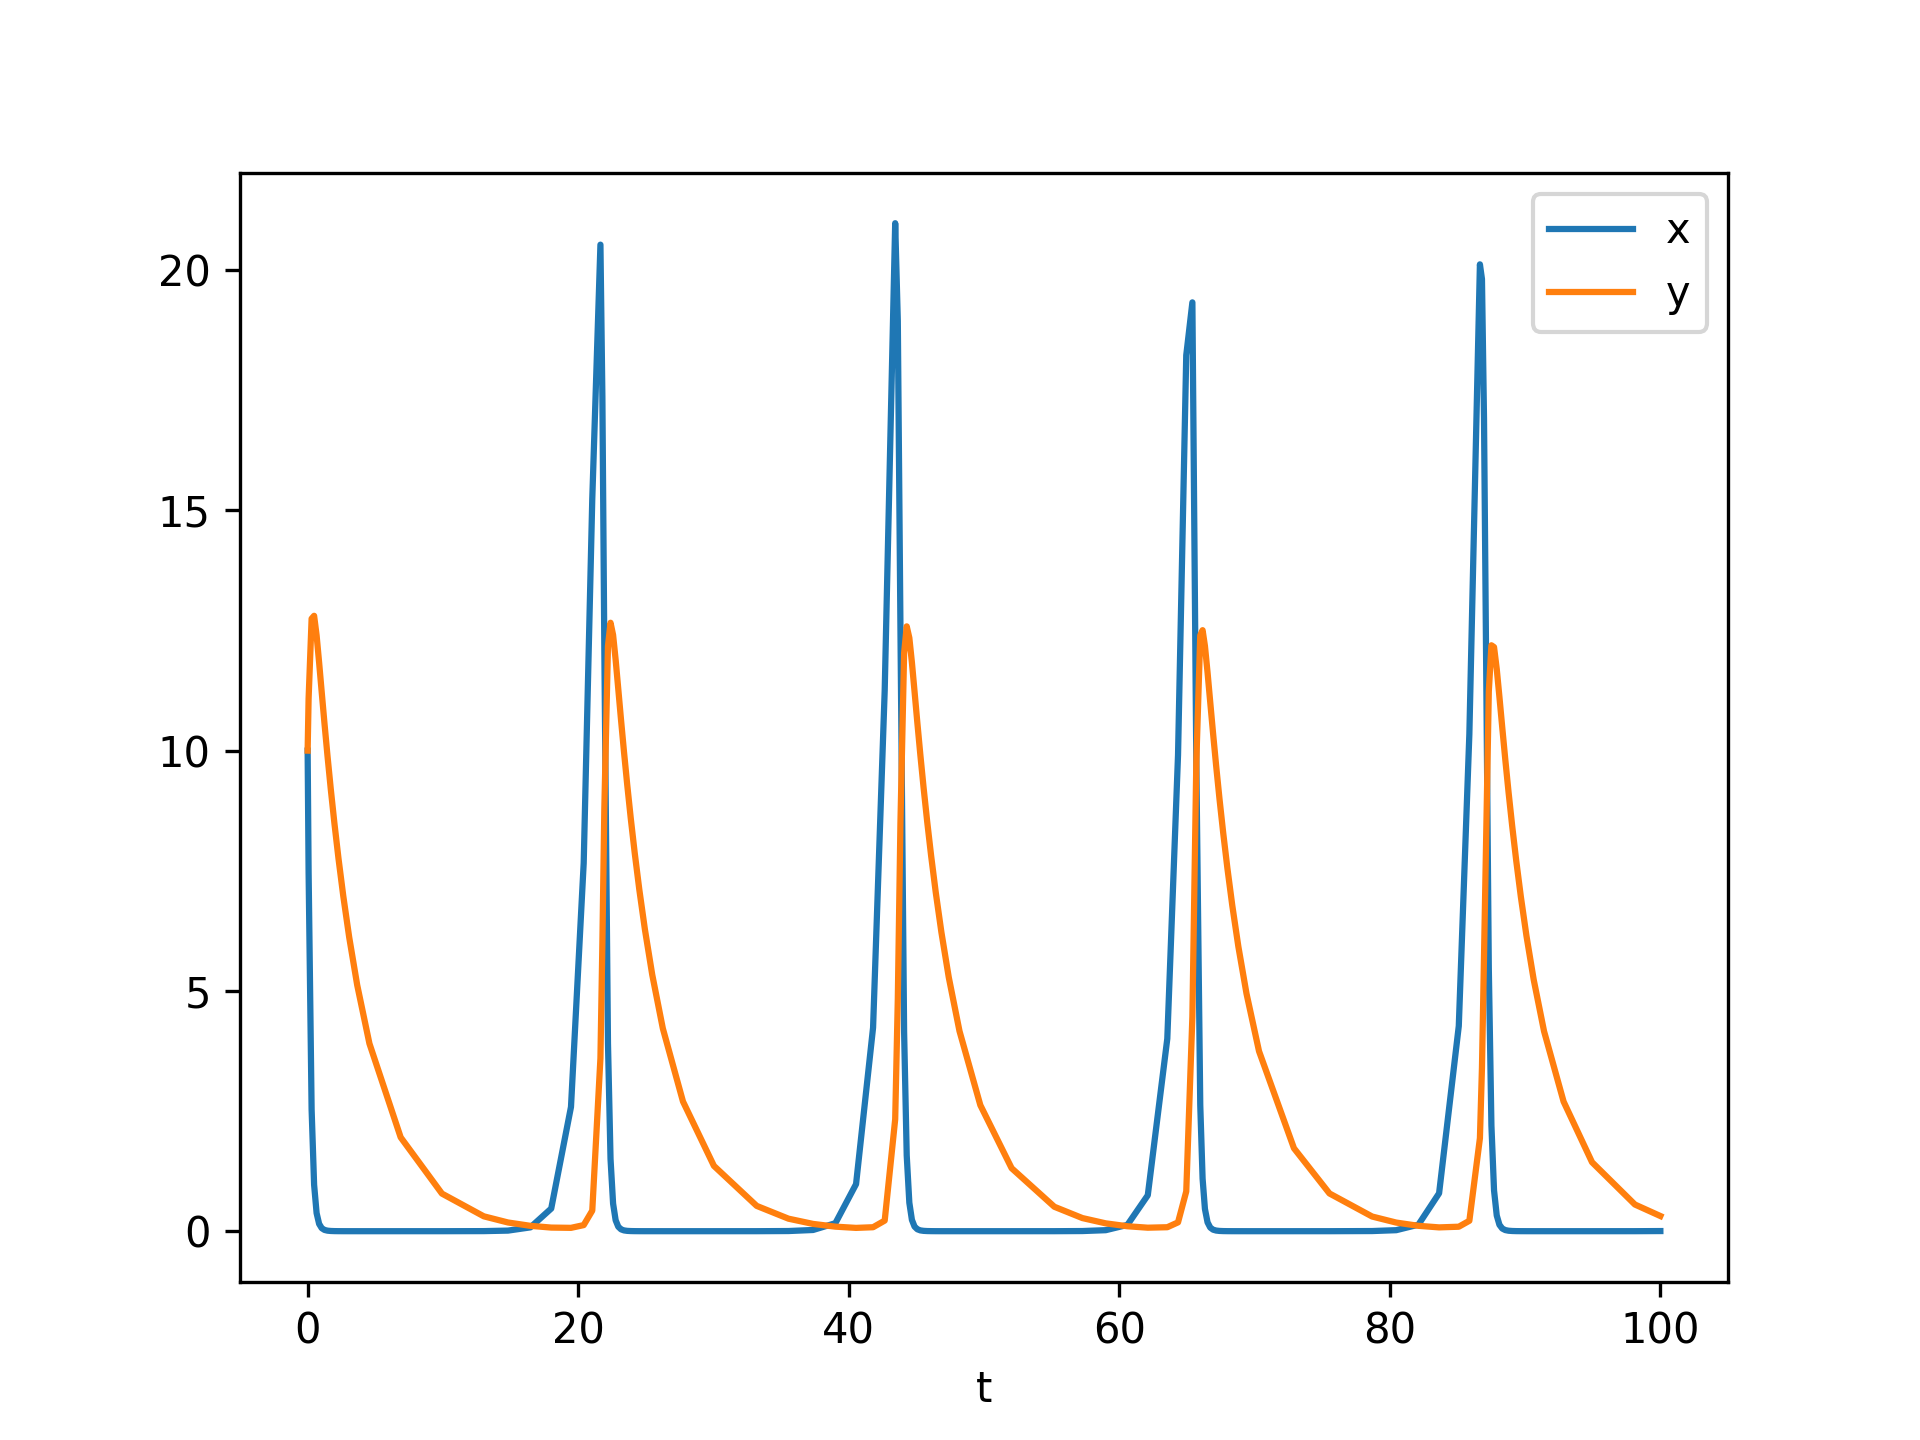
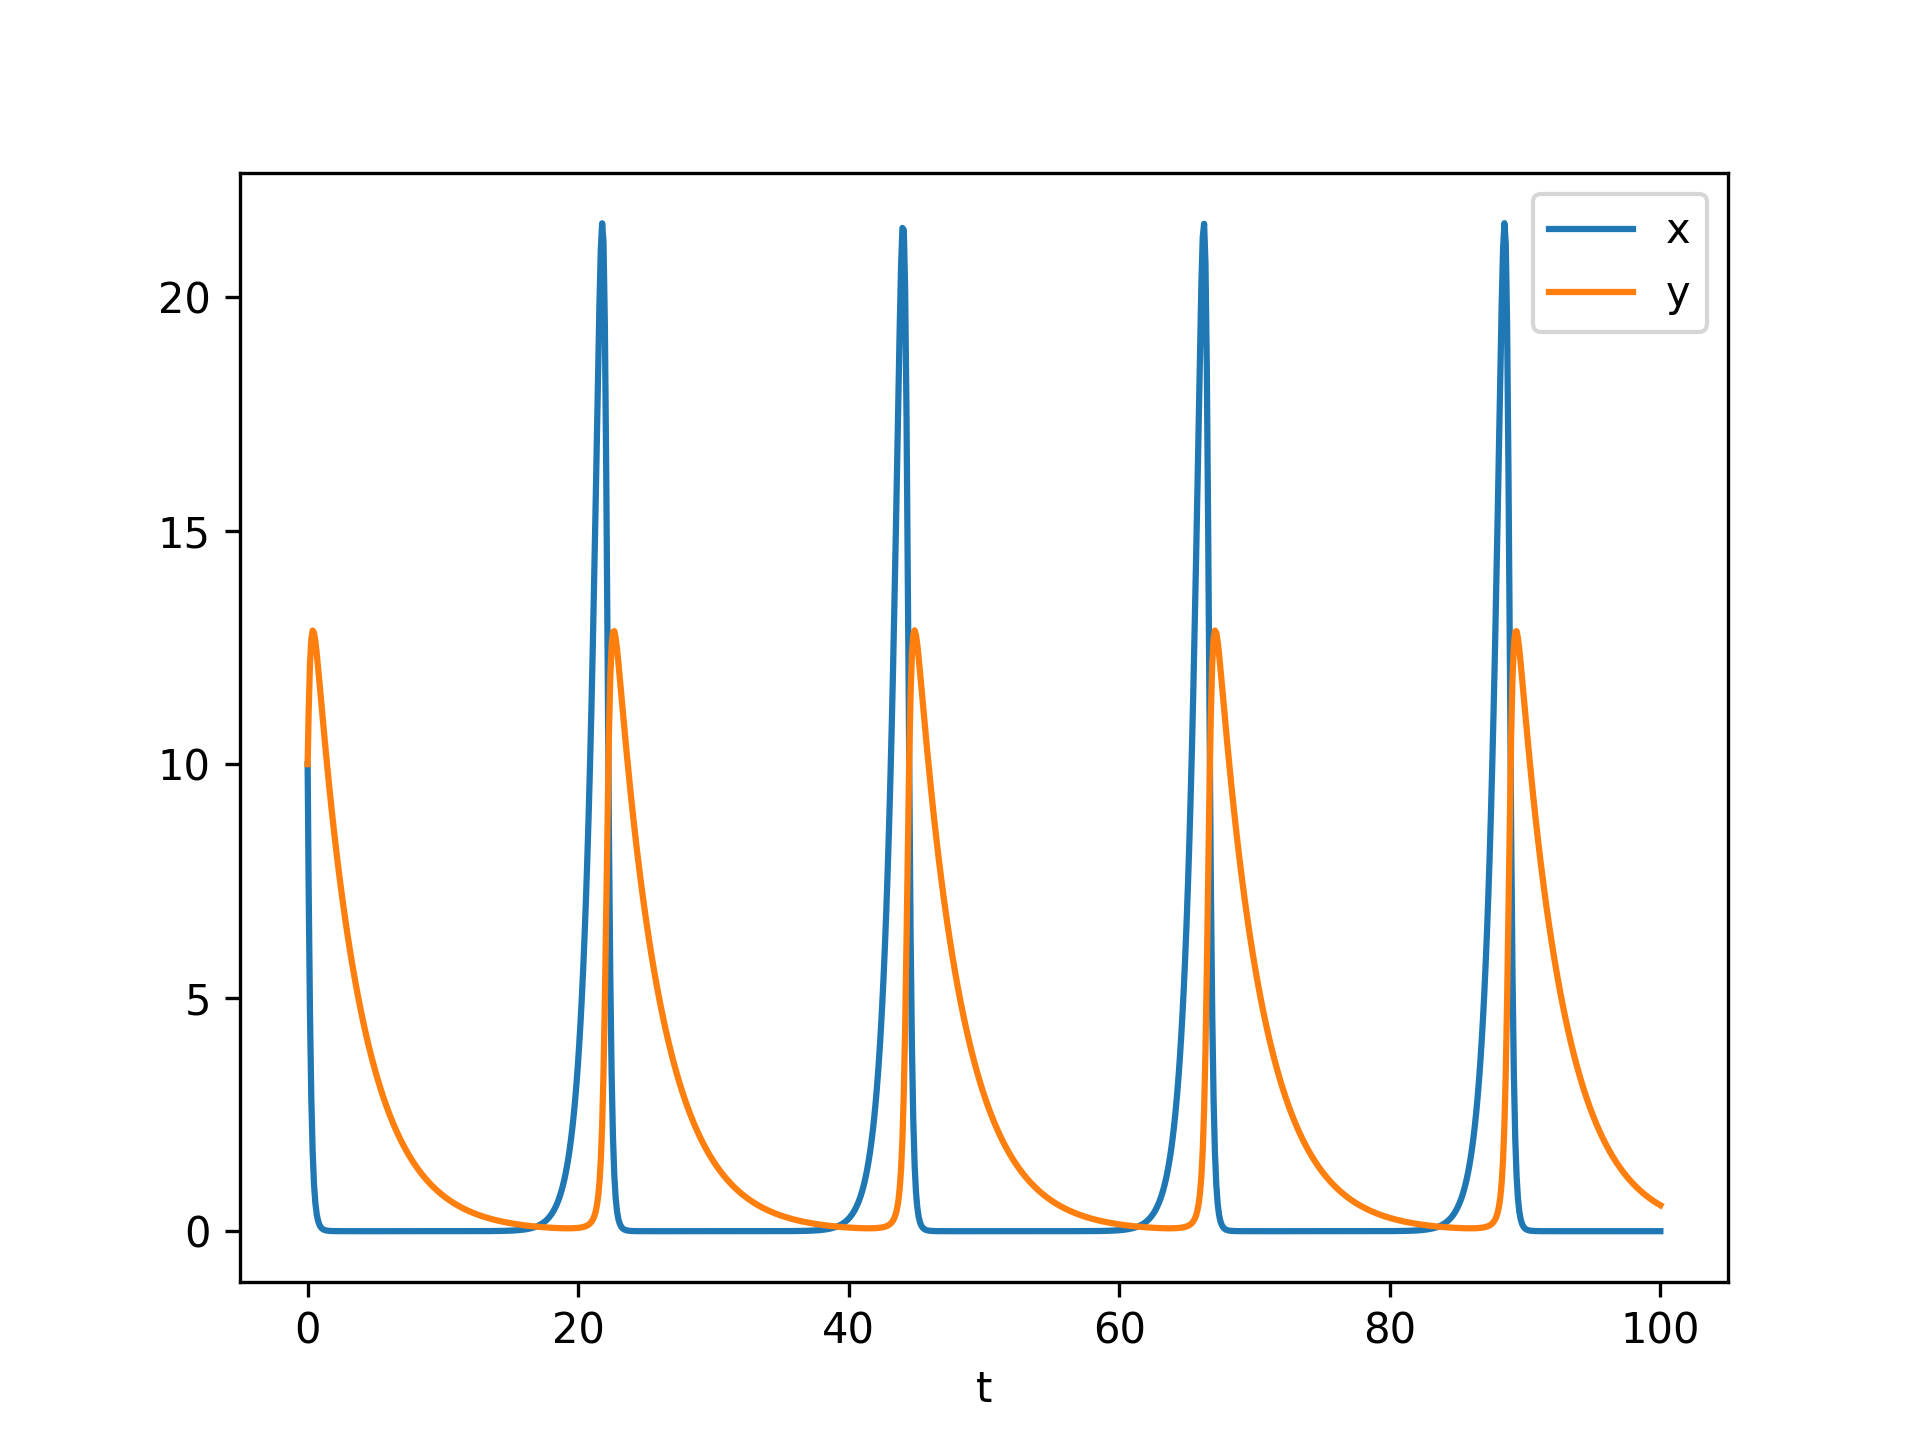
Added scipy check against exp decay

diff --git a/z_scipy.py b/z_scipy.py
@@ -1,0 +1,23 @@
+import numpy as np
+import matplotlib.pyplot as plt
+from scipy.integrate import solve_ivp
+
+def true_sol(t):
+    return np.exp(-1*t)
+
+def rhs(t, z):
+    return np.array([-1*z])
+
+T = 10
+z0 = np.array([1])
+
+sol = solve_ivp(lambda t,z: rhs(t, z), t_span=[0, T], y0=z0, max_step=0.1)
+
+t = np.linspace(0, T)
+sol_true = true_sol(t)
+
+plt.plot(sol.t, sol.y.T)
+plt.plot(t, sol_true)
+plt.xlabel('t')
+plt.legend(['RK45', 'Ground truth'])
+plt.savefig('sol_z.png', dpi=300)

diff --git a/lv_scipy.py b/lv_scipy.py
@@ -17,7 +17,7 @@ def lv_rhs(t, sol, a, b, d, g):
         d*sol[0]*sol[1] - g*sol[1]
     ])
 
-sol = solve_ivp(lambda t,y: lv_rhs(t, y, a, b, d, g), t_span, y0)
+sol = solve_ivp(lambda t,y: lv_rhs(t, y, a, b, d, g), t_span, y0, max_step=0.1)
 
 plt.plot(sol.t, sol.y.T)
 plt.xlabel('t')
